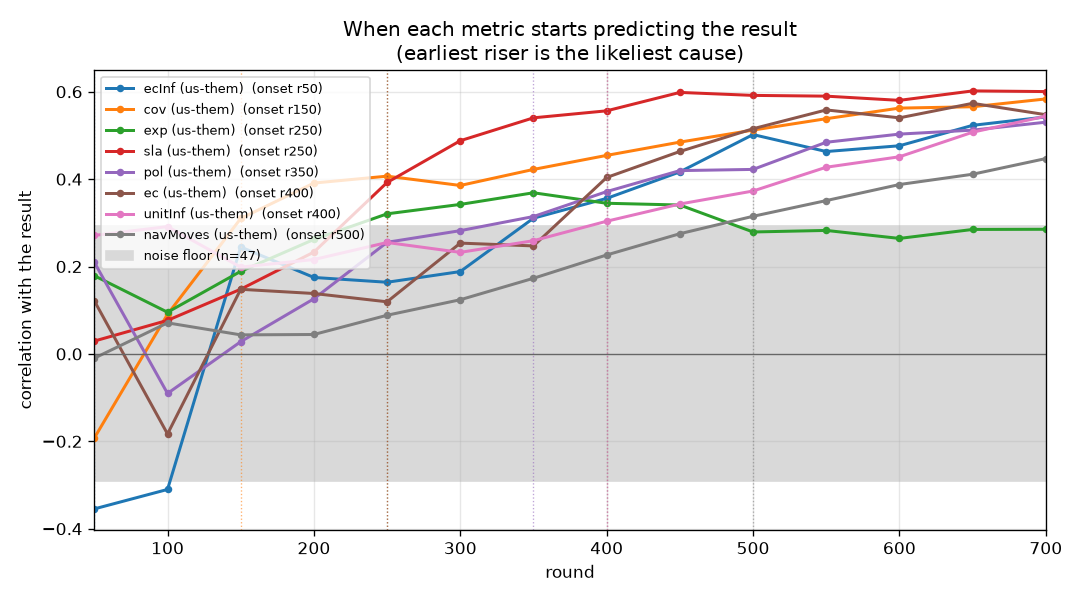
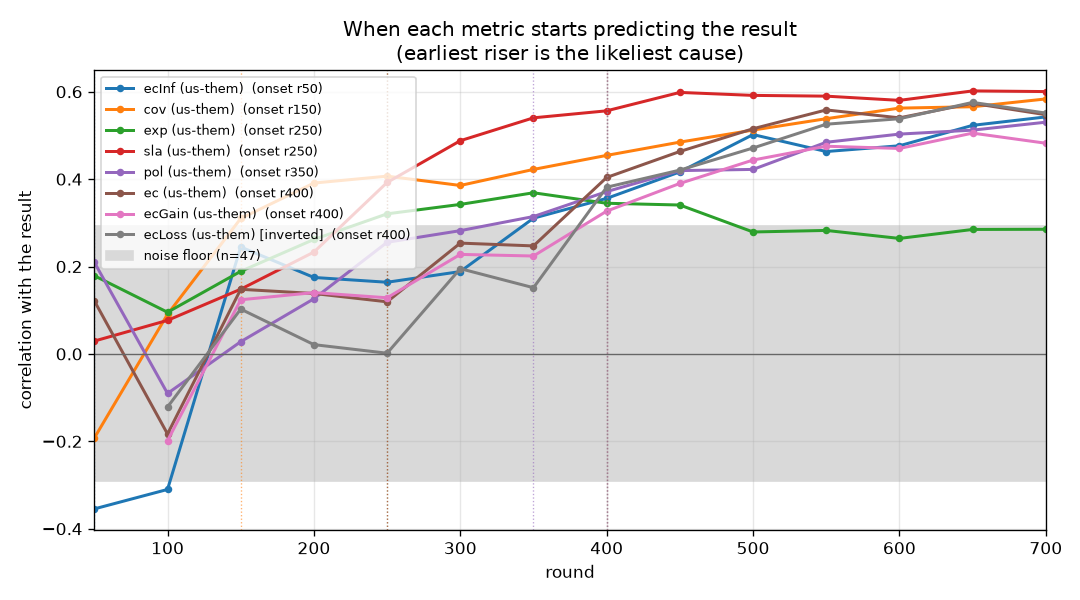
Fix the orientation of difference rows for inverted metrics
Adding centres-lost to the pipeline made a latent bug visible: `orient`
returned a difference unchanged whatever the metric's sign, on the reasoning
that further ahead is always better. That holds for centres or slanderers,
not for oscillation or centres lost, where being further ahead is exactly
what you do not want. Every inverted metric's difference row has therefore
been reading with its sign flipped.

Affected rows: aba, swamp, navAba, navSwamp. The published
`navAba (us-them)` figure of +0.36 at r50 should have read -0.36. No
candidate was ever built on one of them.

A difference is now multiplied by the metric's own sign, the label marks it
inverted, and six unit tests pin the cases. ONSET.md and onset-ladder.png
are regenerated, and now carry centres taken and centres lost.

Claude-Session: https://claude.ai/code/session_01VgeNHsn9ncLsLui8RaK6L7

diff --git a/tools/polarity.py b/tools/polarity.py
@@ -7,7 +7,10 @@ reader's head -- which is where misreadings come from.
 
   +1  higher is better for us        -1  lower is better for us
 A metric of theirs is always -1: more for them is worse for us.
-Gaps (us - them) are +1 by construction: being further ahead is better.
+A gap (us - them) is multiplied by the metric's own sign: being further ahead on
+something good is good, but being further ahead on *oscillation* or on *centres
+lost* is bad. This was wrong until 2026-09-20 -- gaps were returned unoriented,
+so every inverted metric's gap row read with its sign flipped.
 """
 POLARITY = {
     'ec': +1, 'ecInf': +1,
@@ -31,11 +34,11 @@ def orient(metric, value, side):
     """side: 'us', 'th', or 'gap'. Returns the oriented value, or None if unoriented."""
     p = POLARITY.get(metric, 0)
     if p == 0: return None
-    if side == 'gap': return value            # already us-minus-them
+    if side == 'gap': return p * value        # us-minus-them, then the metric's own sign
     if side == 'us': return p * value
     return -p * value                         # theirs: their advantage is our disadvantage
 def label(metric, side):
     p = POLARITY.get(metric, 0)
-    tag = '' if p == +1 or side == 'gap' else (' [inverted]' if p == -1 else ' [unoriented]')
+    tag = '' if p == +1 else (' [inverted]' if p == -1 else ' [unoriented]')
     base = metric + (' (us-them)' if side == 'gap' else ('' if side == 'us' else ' (theirs)'))
     return base + tag

diff --git a/tools/test_metrics.py b/tools/test_metrics.py
@@ -14,7 +14,13 @@ def close(a, b, eps=1e-9): return a is not None and abs(a-b) < eps
 print("polarity")
 check("our count is higher-better", orient('ec', 3, 'us') == 3)
 check("their count is inverted", orient('ec', 3, 'th') == -3)
-check("a gap is already oriented", orient('ec', -2, 'gap') == -2)
+check("a gap of a higher-is-better metric keeps its sign", orient('ec', -2, 'gap') == -2)
+# 2026-09-20: gaps were returned unoriented, so every inverted metric's gap row read backwards.
+check("a gap of an inverted metric is flipped", orient('aba', 3, 'gap') == -3)
+check("leading on centres lost is bad", orient('ecLoss', 3, 'gap') == -3)
+check("leading on oscillation is bad", orient('navAba', 5, 'gap') == -5)
+check("an unoriented metric has no gap either", orient('firstEC', 3, 'gap') is None)
+check("an inverted gap is labelled as inverted", '[inverted]' in label('aba', 'gap'))
 check("oscillation is inverted for us", orient('aba', 5, 'us') == -5)
 check("their oscillation helps us", orient('aba', 5, 'th') == 5)
 check("unoriented metric returns None", orient('firstEC', 100, 'us') is None)

diff --git a/progress/ONSET.md b/progress/ONSET.md
@@ -19,20 +19,24 @@ See `progress/METRICS.md` for how each quantity is computed.
 | r300 | sla (us-them) ~avg | +0.61 | +0.03 | +0.06 | +0.16 | +0.34 | +0.48 | +0.60 |
 | r350 | pol (us-them) | +0.53 | +0.21 | -0.09 | +0.13 | +0.28 | +0.37 | +0.50 |
 | r400 | ec (us-them) | +0.57 | +0.12 | -0.18 | +0.14 | +0.25 | +0.40 | +0.54 |
+| r400 | ecGain (us-them) | +0.51 | . | -0.20 | +0.14 | +0.23 | +0.33 | +0.47 |
+| r400 | ecLoss (us-them) [inverted] | +0.58 | . | -0.12 | +0.02 | +0.20 | +0.38 | +0.54 |
 | r400 | pol (us-them) ~avg | +0.48 | +0.21 | -0.00 | +0.07 | +0.20 | +0.30 | +0.45 |
 | r400 | unitInf (us-them) | +0.54 | +0.27 | +0.29 | +0.22 | +0.23 | +0.30 | +0.45 |
 | r500 | ec (us-them) ~avg | +0.47 | +0.12 | -0.14 | +0.11 | +0.12 | +0.23 | +0.42 |
+| r500 | ecLoss (us-them) [inverted] ~avg | +0.48 | . | -0.12 | +0.03 | +0.06 | +0.21 | +0.42 |
 | r500 | navMoves (us-them) | +0.45 | -0.01 | +0.07 | +0.04 | +0.12 | +0.23 | +0.39 |
 | r500 | unitInf (us-them) ~avg | +0.45 | +0.27 | +0.29 | +0.23 | +0.24 | +0.27 | +0.38 |
+| r550 | ecGain (us-them) ~avg | +0.39 | . | -0.20 | +0.09 | +0.11 | +0.19 | +0.34 |
 | r550 | muc (us-them) | +0.43 | +0.00 | +0.06 | +0.12 | +0.07 | +0.18 | +0.36 |
 | r600 | navMoves (us-them) ~avg | +0.36 | -0.01 | +0.06 | +0.05 | +0.09 | +0.16 | +0.31 |
 | r700 | muc (us-them) ~avg | +0.31 | +0.00 | +0.04 | +0.10 | +0.07 | +0.11 | +0.25 |
-| r700 | navAba (us-them) | +0.36 | +0.36 | +0.02 | -0.09 | -0.07 | +0.03 | +0.24 |
+| r700 | navAba (us-them) [inverted] | -0.36 | -0.36 | -0.02 | +0.09 | +0.07 | -0.03 | -0.24 |
 | - | buff (us-them) | +0.27 | +0.18 | +0.09 | +0.21 | +0.17 | +0.03 | +0.12 |
 | - | buff (us-them) ~avg | +0.28 | +0.18 | +0.09 | +0.20 | +0.24 | +0.20 | +0.18 |
-| - | navAba (us-them) ~avg | +0.36 | +0.36 | +0.05 | -0.06 | -0.07 | -0.03 | +0.13 |
-| - | navSwamp (us-them) | . | . | . | . | . | . | . |
-| - | navSwamp (us-them) ~avg | . | . | . | . | . | . | . |
+| - | navAba (us-them) [inverted] ~avg | -0.36 | -0.36 | -0.05 | +0.06 | +0.07 | +0.03 | -0.13 |
+| - | navSwamp (us-them) [inverted] | . | . | . | . | . | . | . |
+| - | navSwamp (us-them) [inverted] ~avg | . | . | . | . | . | . | . |
 
 **Reading it.** Earliest onset is the first place to look: temporal precedence is the one causal hint a
 correlation can honestly give. Late-onset metrics are usually the scoreboard rather than the cause -- by then

diff --git a/progress/METRICS.md b/progress/METRICS.md
@@ -45,8 +45,16 @@ column accordingly, so A/B never leaks into the numbers.
 Defined in `tools/polarity.py`. Each quantity is marked higher-is-better
 (`+1`) or lower-is-better (`-1`), and the value is multiplied by that sign
 before anything is correlated. Anything belonging to the *opponent* is negated
-as well, since their advantage is our disadvantage. Differences are already
-oriented by construction: further ahead is better.
+as well, since their advantage is our disadvantage. A difference (us minus them)
+is multiplied by the metric's own sign: being further ahead on something good is
+good, but being further ahead on *oscillation*, or on *centres lost*, is bad.
+
+Until 2026-09-20 differences were returned unoriented, on the reasoning that
+"further ahead is better" — true only for higher-is-better metrics. Every
+inverted metric's difference row therefore read with its sign flipped. The
+affected rows were `aba`, `swamp`, `navAba` and `navSwamp`; the published
+`navAba (us-them)` figure of +0.36 at r50 should have read -0.36. Nothing was
+built on it. A unit test now pins each case.
 
 The result is a single reading rule: **a positive correlation always means
 "this being better goes with us winning"**, with no per-row sign-flipping.
